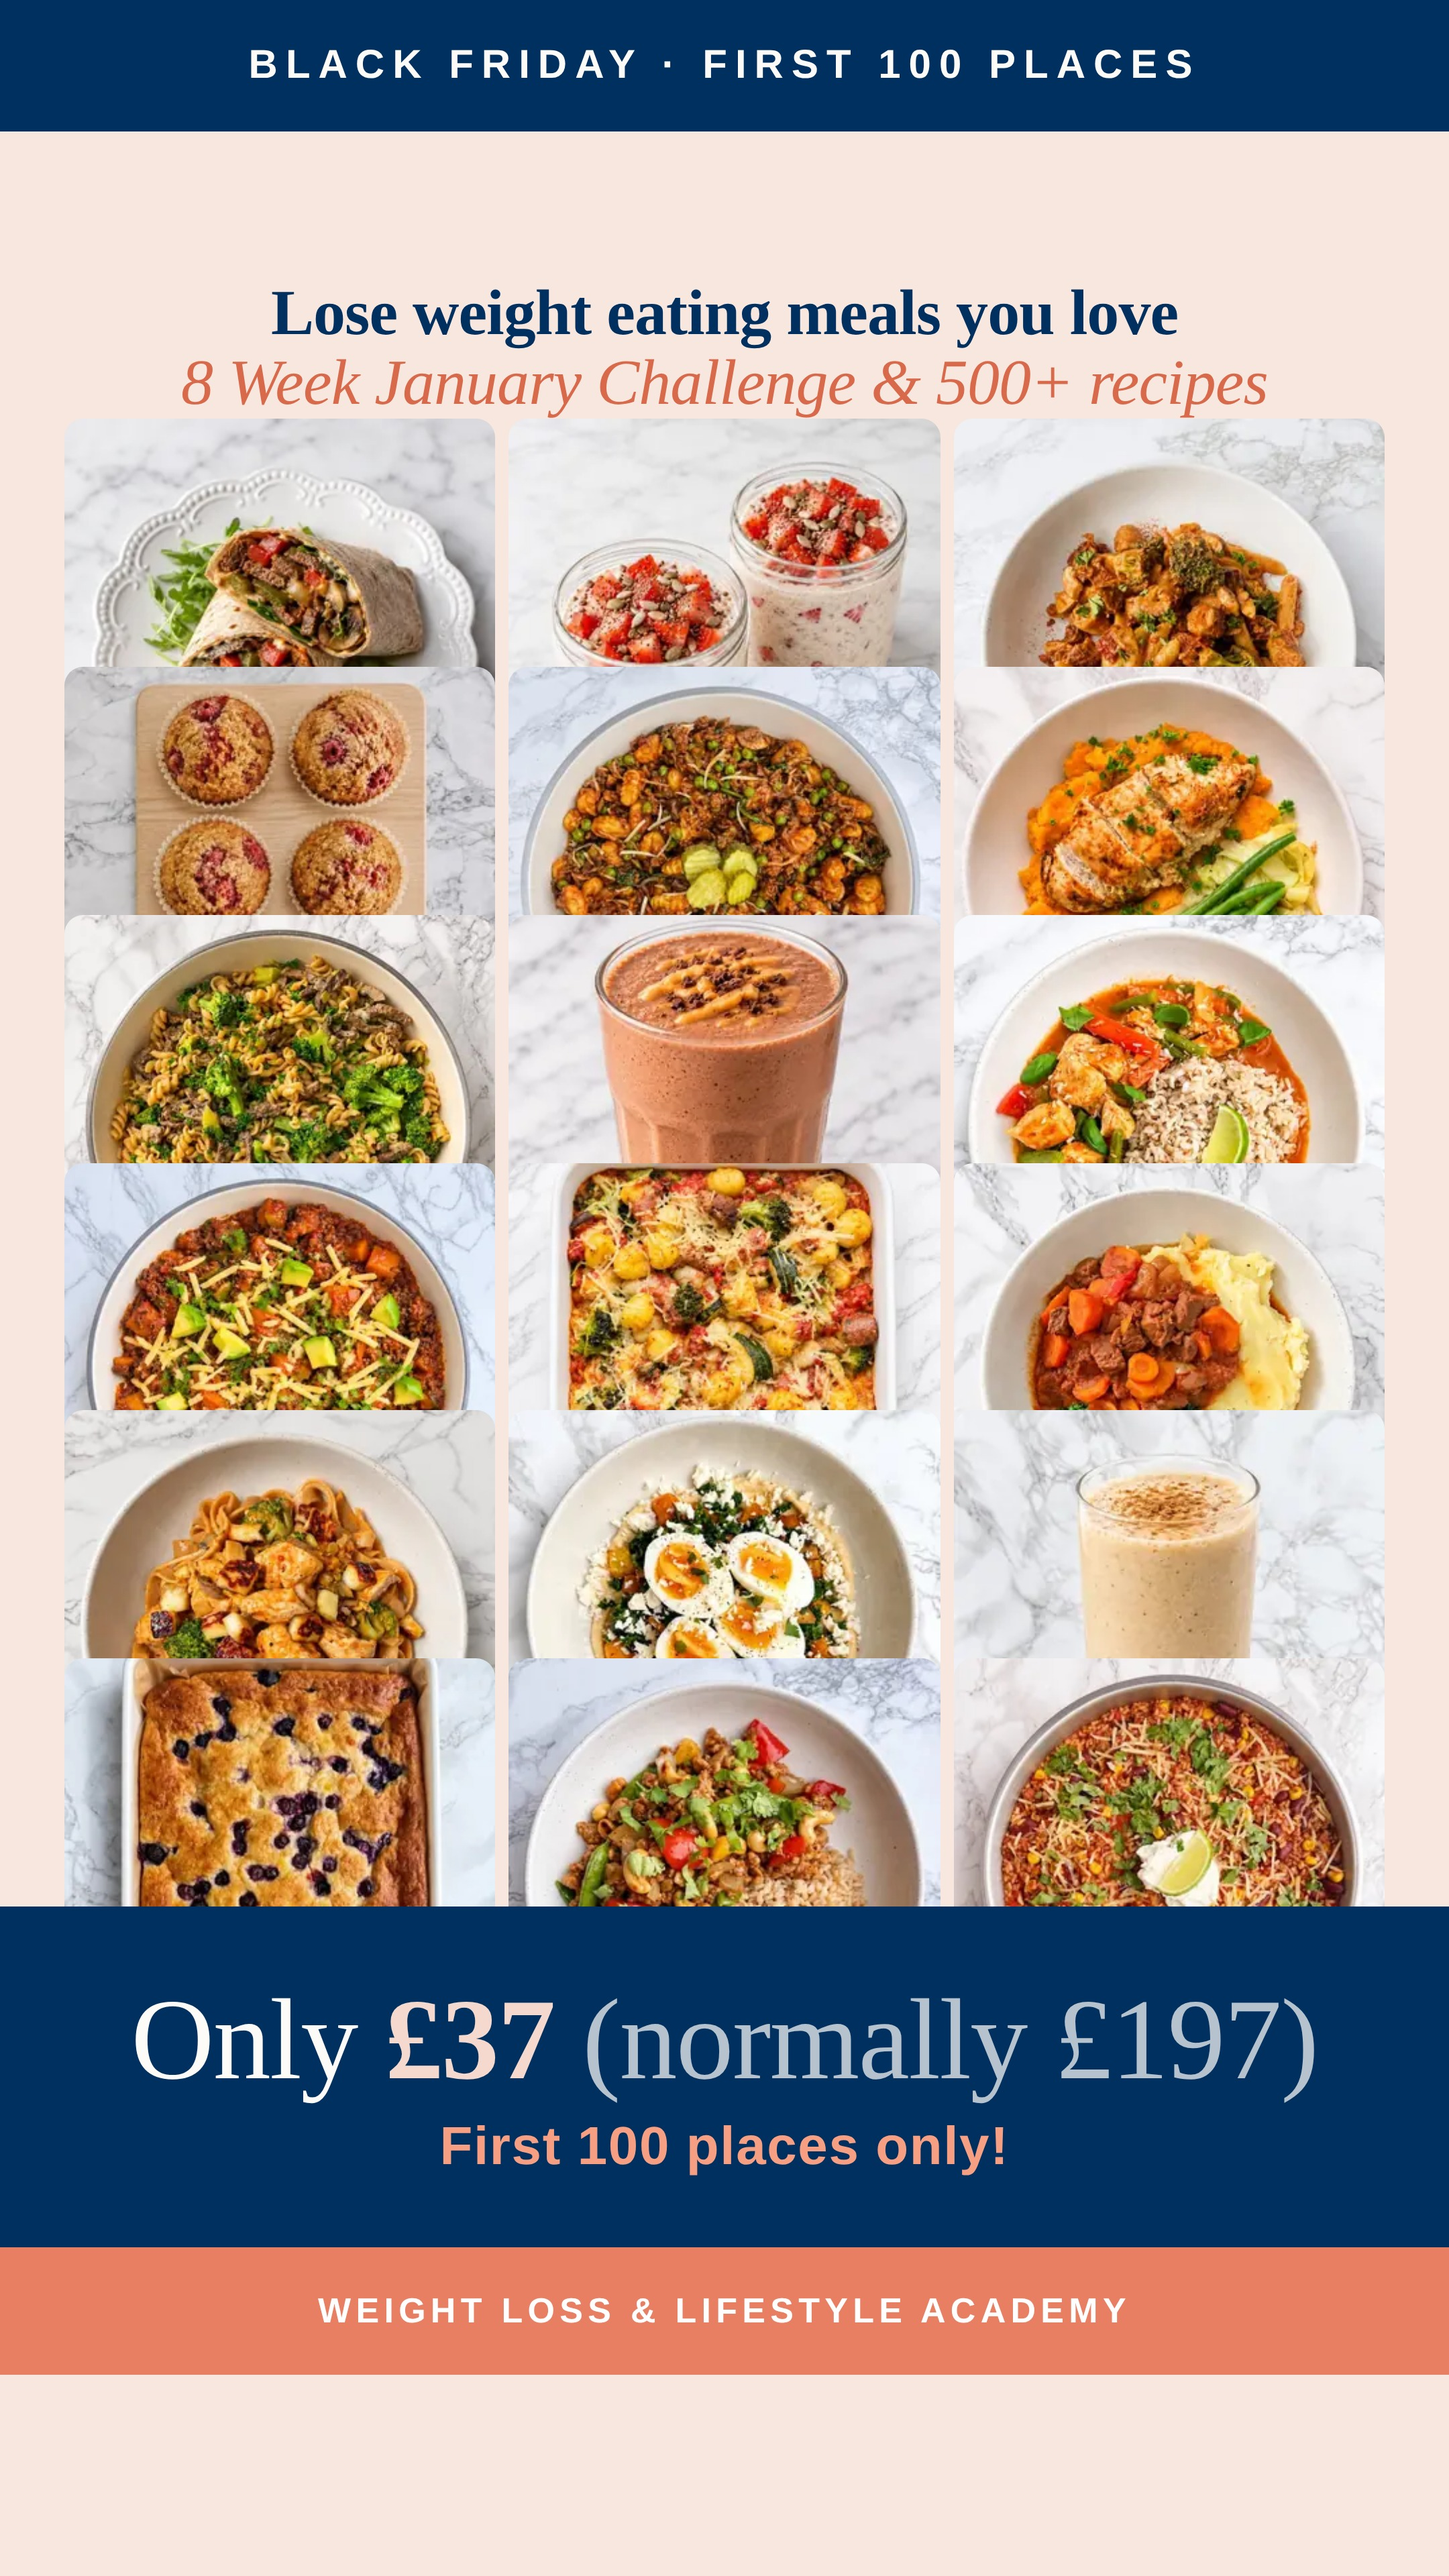
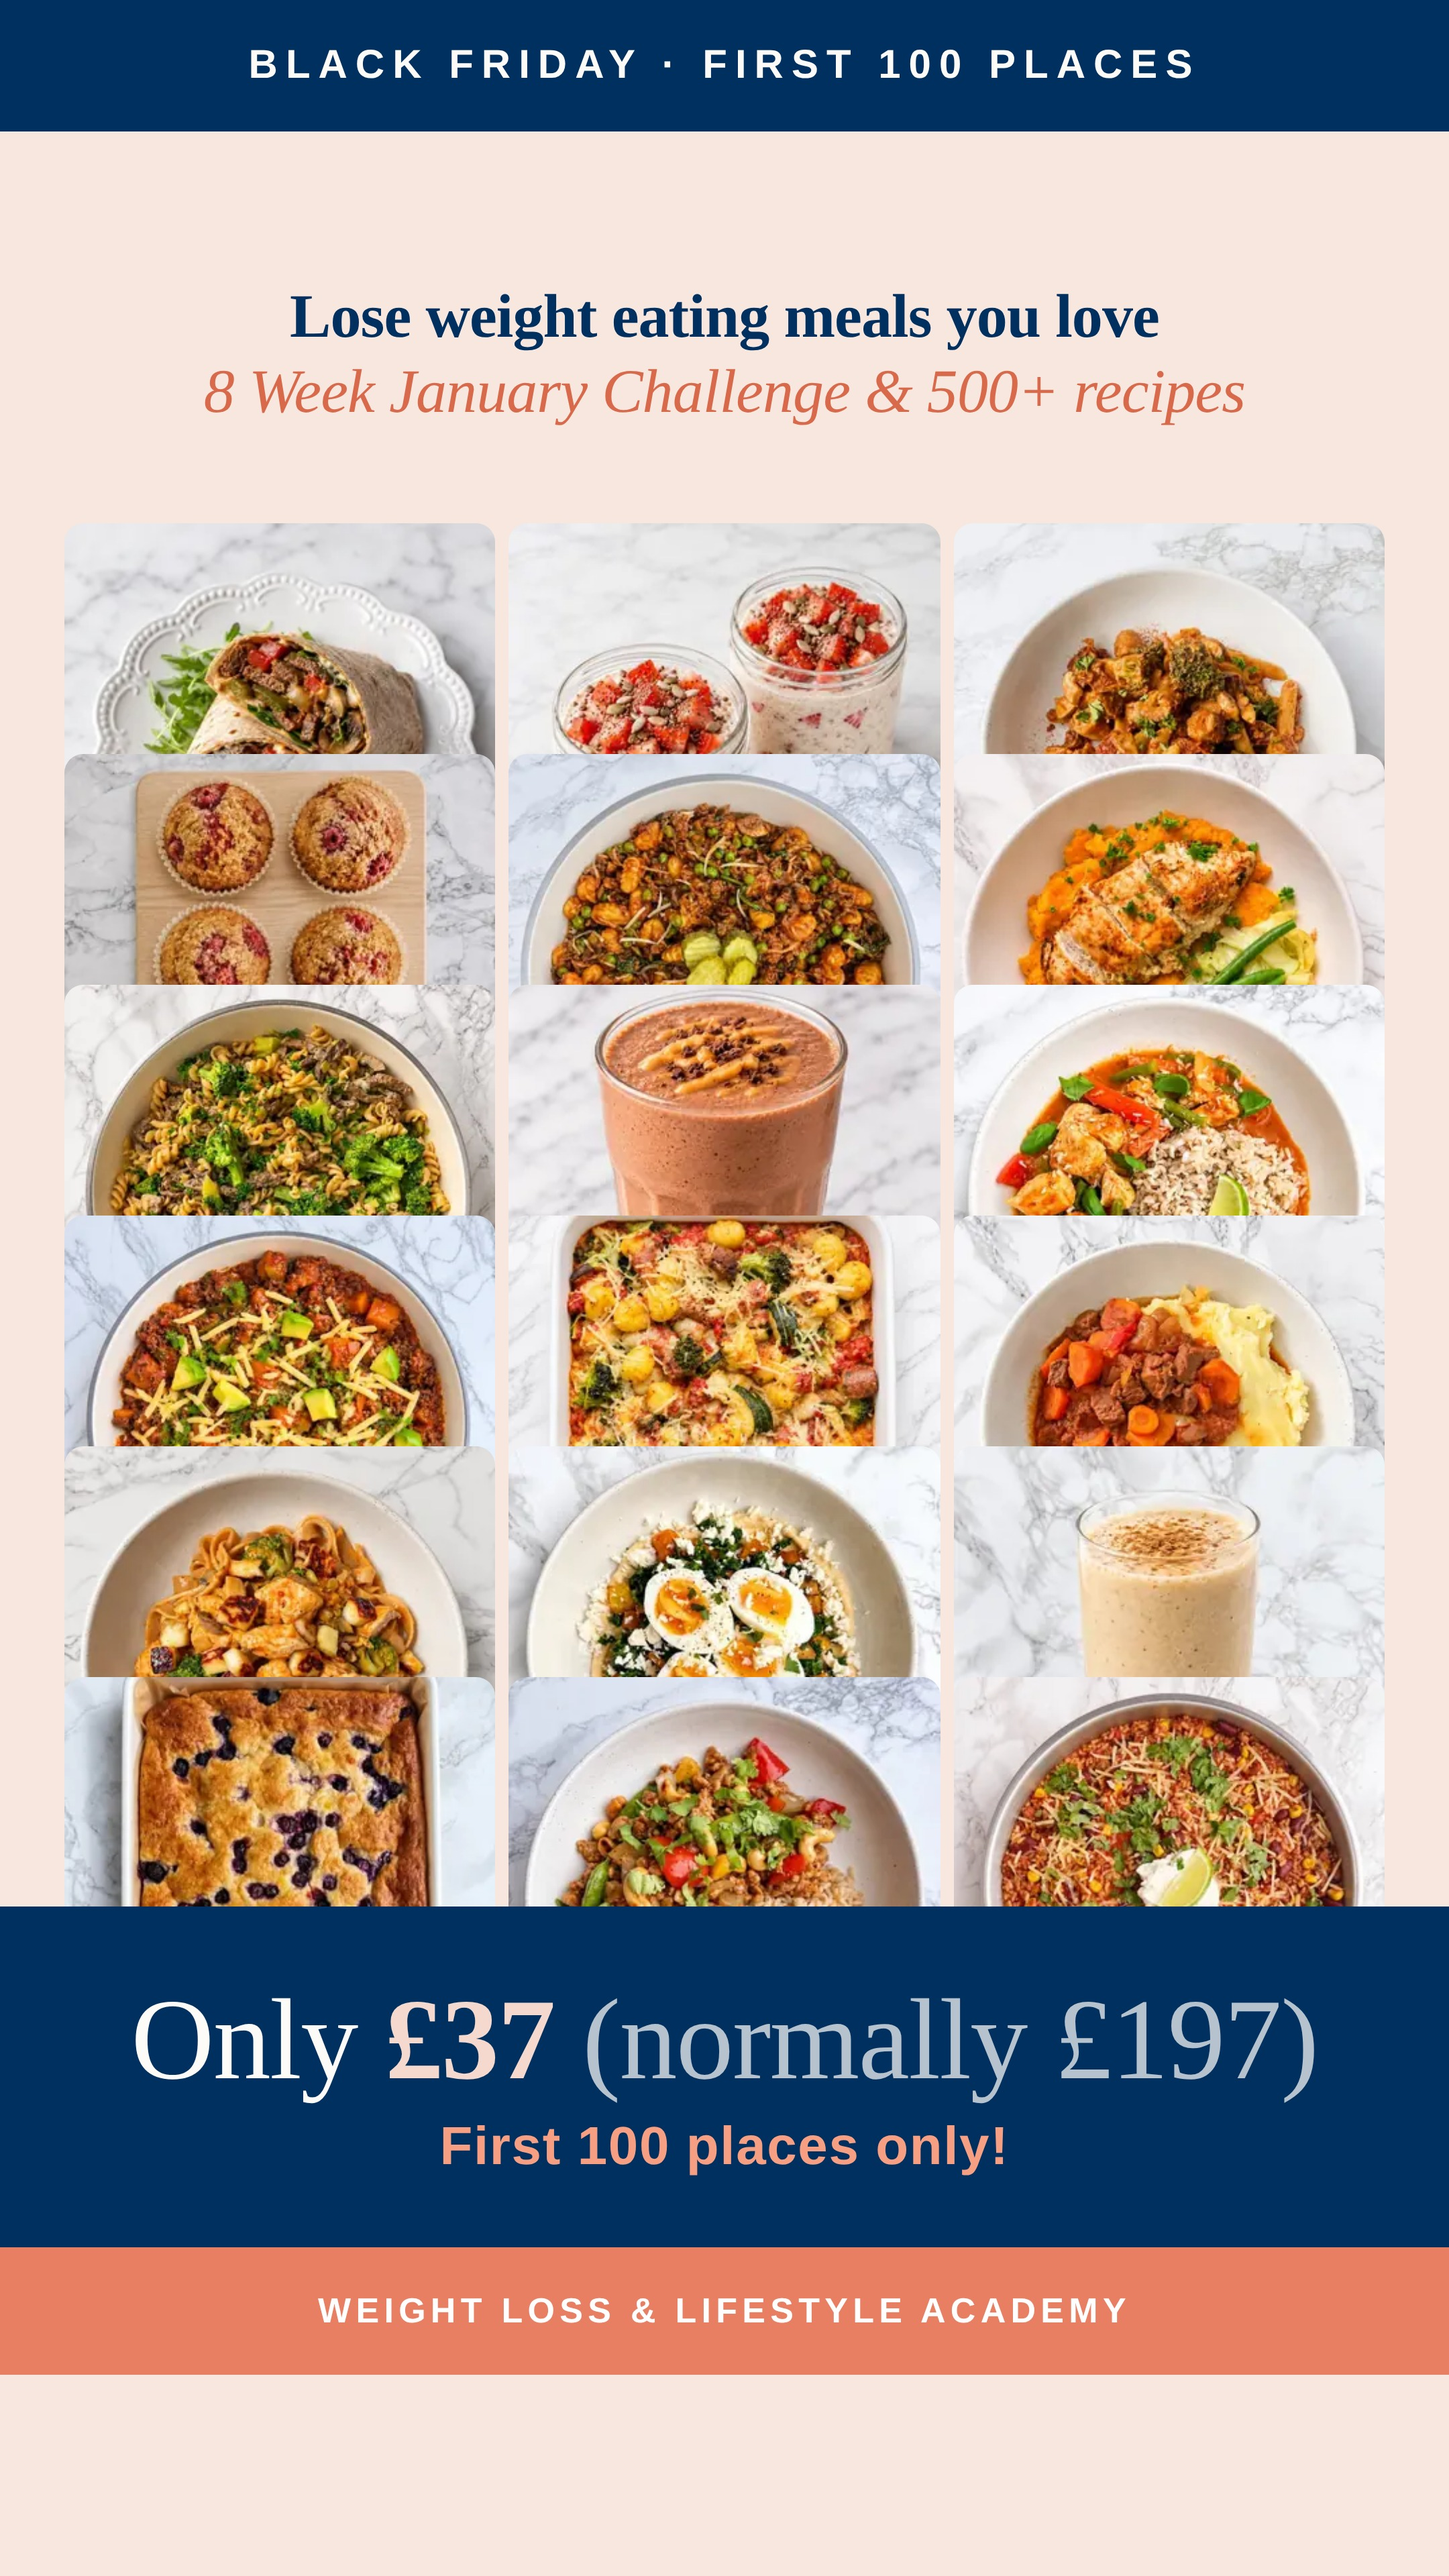
janchallenge ads: give the food variant room to breathe
The subhead sat straight on top of the photographs. The phones in the
other ad carry their own white space -- they are rotated and start
low -- so the layout never needed a gap. A flush grid does, and it did
not have one.

A gap before the grid at each size (42px square, 54px portrait, 70px
story) and the headline opens from 1.08 to 1.22 line-height, so the two
lines are not touching each other either. Type comes down two points to
pay for it.

Claude-Session: https://claude.ai/code/session_01Jn9w1ixEKqgExzNapm9XBc

diff --git a/janchallenge/ads/food.html b/janchallenge/ads/food.html
@@ -40,8 +40,10 @@
        line-height: 1.08; letter-spacing: -.01em; }
   h1 em { font-style: italic; font-weight: 400; color: var(--coral-deep); }
 
-  /* Food variant: a block of recipe tiles instead of the phones. The grid is
-     deliberately tight and bleeds to the edges, so it reads as a library. */
+  /* Food variant: a block of recipe tiles instead of the phones. The phones
+     carried their own white space because they are rotated and start low; a
+     flush grid does not, so the headline needs a gap set for it. */
+  h1 + .grid { margin-top: 0; }
   .grid { width: 100%; flex: 1; min-height: 0; display: grid; gap: 10px;
           grid-template-columns: repeat(4, 1fr); align-content: center; padding: 0 0 10px; }
   .grid .t { aspect-ratio: 1/1; overflow: hidden; border-radius: 14px; background: var(--peach); }
@@ -74,7 +76,8 @@
   /* ---- square 1080x1080 ---- */
   #ad-square .strip { padding: 22px; font-size: 26px; }
   #ad-square .body { padding: 40px 70px 0; }
-  #ad-square h1 { font-size: 46px; }
+  #ad-square h1 { font-size: 44px; line-height: 1.22; }
+  #ad-square .grid { margin-top: 42px; }
   #ad-square .phones { margin-top: 34px; }
   #ad-square .phone.mid { width: 292px; margin: 0 -30px; }
   #ad-square .phone.side { width: 256px; margin-top: 48px; }
@@ -86,7 +89,8 @@
   /* ---- portrait 1080x1350 ---- */
   #ad-portrait .strip { padding: 26px; font-size: 28px; }
   #ad-portrait .body { padding: 56px 56px 0; }
-  #ad-portrait h1 { font-size: 47px; }
+  #ad-portrait h1 { font-size: 45px; line-height: 1.22; }
+  #ad-portrait .grid { margin-top: 54px; }
   #ad-portrait .phones { margin-top: 50px; }
   #ad-portrait .phone.mid { width: 352px; margin: 0 -36px; }
   #ad-portrait .phone.side { width: 310px; margin-top: 60px; }
@@ -98,7 +102,8 @@
   /* ---- story 1080x1920 ---- */
   #ad-story .strip { padding: 32px; font-size: 30px; }
   #ad-story .body { padding: 110px 48px 0; }
-  #ad-story h1 { font-size: 48px; }
+  #ad-story h1 { font-size: 46px; line-height: 1.22; }
+  #ad-story .grid { margin-top: 70px; }
   #ad-story .phones { margin-top: 70px; align-items: flex-start; }
   #ad-story .phone.mid { width: 452px; margin: 0 -42px; }
   #ad-story .phone.side { width: 394px; margin-top: 76px; }
